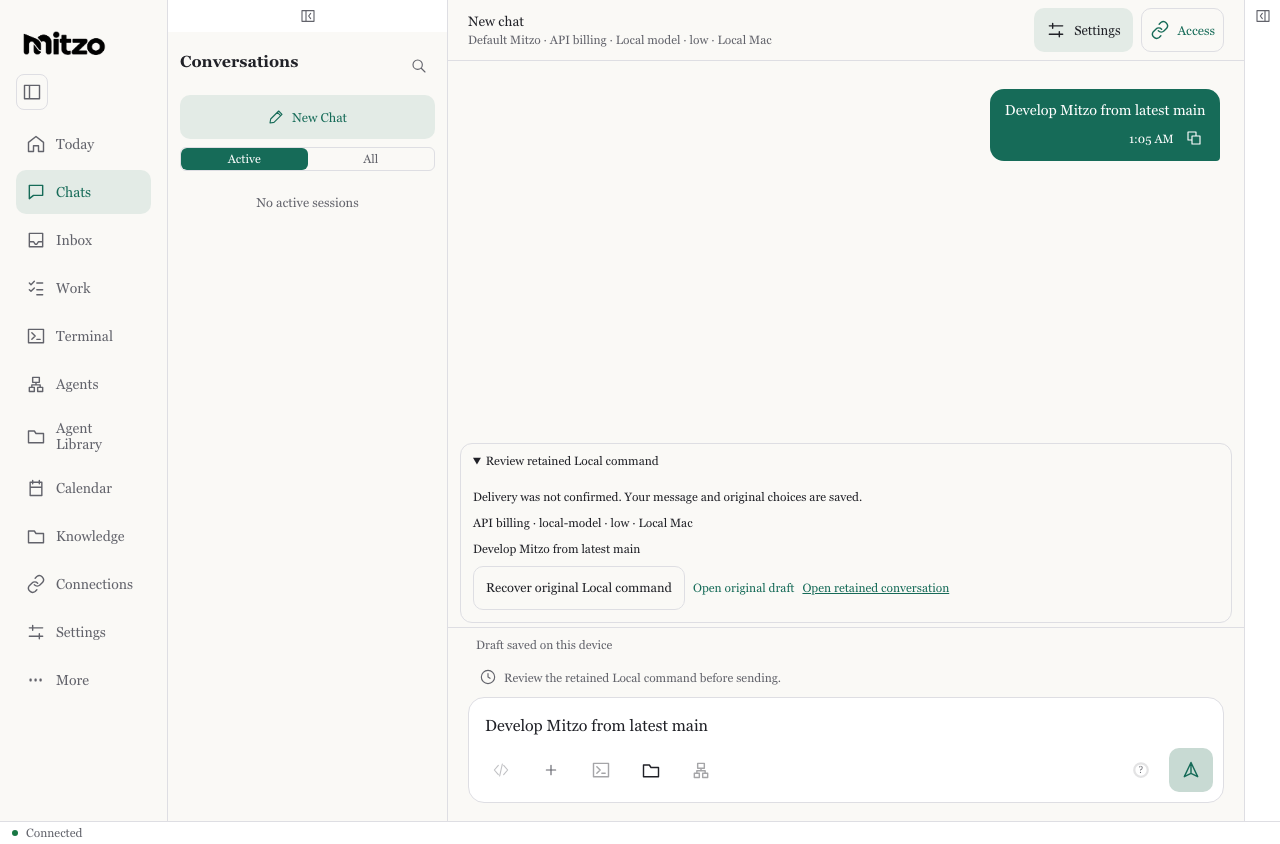
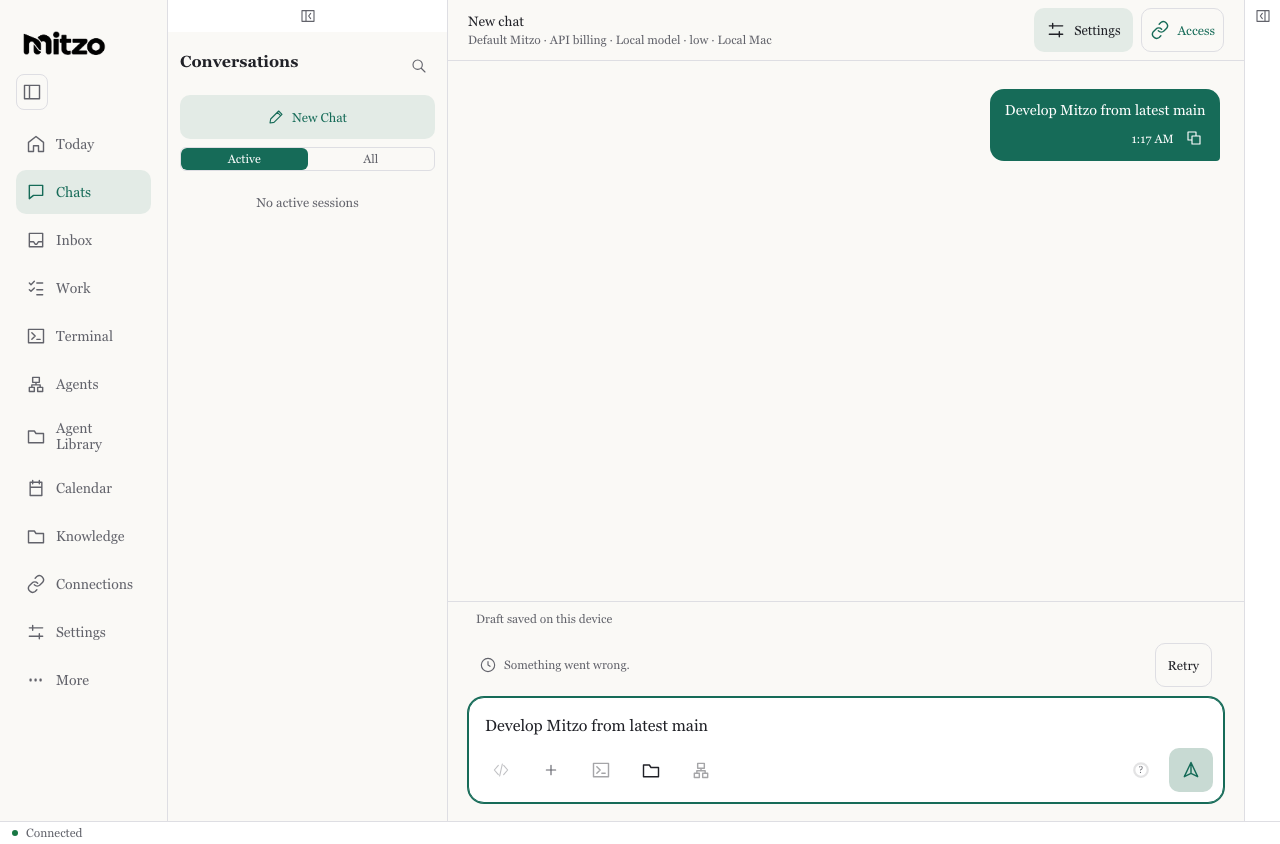
test(chat): verify quiet Retry feedback across local accounts

diff --git a/tests/offline/repository-preparation-recovery.spec.ts b/tests/offline/repository-preparation-recovery.spec.ts
@@ -474,17 +474,20 @@ for (const workspaceChoice of ['select', 'default'] as const) {
           expect(commands.at(-1)?.repositoryWorkspaceId).toBeUndefined();
           expect(selected).toHaveLength(0);
           await expect(composer).toHaveValue('Develop Mitzo from latest main');
-          const review = page.getByText('Review retained Local command', { exact: true });
-          await expect(review).toBeVisible();
+          const recover = page.getByRole('button', { name: 'Retry', exact: true });
+          await expect(recover).toBeVisible();
+          await expect(page.getByText('Something went wrong.', { exact: true })).toHaveCount(1);
+          await expect(
+            page.getByText(
+              /command retained|Review retained|Review the retained|Delivery was not confirmed/,
+            ),
+          ).toHaveCount(0);
           await expect(page.getByRole('button', { name: 'Stop generation' })).toHaveCount(0);
           await expect(page.locator('.conversation-composer [data-icon="loading"]')).toHaveCount(0);
           await expect(start).toBeDisabled();
           await expect(
             page.getByRole('region', { name: 'Agent settings', exact: true }),
           ).toBeHidden();
-          await review.click();
-          const recover = page.getByRole('button', { name: 'Recover original Local command' });
-          await expect(recover).toBeVisible();
           await recover.scrollIntoViewIfNeeded();
           expect((await recover.boundingBox())!.height).toBeGreaterThanOrEqual(44);
           await expect(recover).toBeInViewport();

diff --git a/docs/design/ui-design-system.md b/docs/design/ui-design-system.md
@@ -337,23 +337,21 @@ request keeps its original settings snapshot. Consumed receipt settings are labe
 remain independently disabled. Metadata loading/failure never enables legacy
 fallback; Retry preserves the conversation and draft.
 
-Unconfirmed Local/OpenShell sends expose `LocalCommandRecovery` beside the ordinary
-composer, independently of closed settings. Its native details disclosure shows
-the frozen original message, account/model/thinking/location, exact-receipt recovery
-and links to the original draft or observed conversation. It does not rebuild or
-automatically resend the draft. Unassigned optimistic progress stops on delivery
-uncertainty; real conversation progress keeps its owner. Recovery replaces the
-duplicate delivery-status row, and disconnected recovery stays disabled.
+Unconfirmed Local/OpenShell sends reuse the composer's existing status row with
+one short failure message and one **Retry** action. The action asks the owning outbox
+to check the frozen original request; it does not rebuild or automatically replay
+edited draft content. Retry stays disabled while disconnected. No diagnostic panel,
+repeated payload, account/model summary or duplicate delivery row is shown.
+Unassigned optimistic progress stops on uncertainty; real conversation progress
+keeps its owner and the edited draft remains intact.
 
-This shared control uses the existing quiet surface, `home-secondary`, semantic
-colors, font/type/spacing/radius tokens and 44px touch targets. Its scrollable body
-is bounded to 40dvh (a structural viewport constraint) and the shared spacing scale
-to keep the composer and navigation reachable. All-intercept real application/shell
-checks cover all four local account types, HTTP 409 and transport loss, exact
-request recovery by keyboard, 320px phone and 1280px desktop geometry, dark Mint/System
-and light Teal/Georgia. Inspected captures show
-[mobile recovery](assets/local-command-recovery-mobile-dark.png) and
-[desktop recovery](assets/local-command-recovery-desktop-light.png).
+`ChatStatusMessage` shares this optional action pattern with `ChatInput`, using the
+existing `home-secondary` control, semantic colors, shared spacing and 44px touch
+target. All-intercept real application/shell checks cover all four local account
+types, HTTP 409 and transport loss, exact keyboard recovery, 320px phones and
+1280px desktop, dark Mint/System and light Teal/Georgia. Inspected captures show
+[mobile retry](assets/local-command-recovery-mobile-dark.png) and
+[desktop retry](assets/local-command-recovery-desktop-light.png).
 
 New session elsewhere creates a separately owned blank draft with copied intent
 and no inherited repository preparation. The explicit retained-intent flag keeps

diff --git a/docs/design/local-api-codex-migration.md b/docs/design/local-api-codex-migration.md
@@ -114,9 +114,9 @@ not a live model response. Retained uncertain commands keep their original recei
 recovery never automatically replays an unconfirmed dispatch or resets its worktree.
 
 The client now clears only the unassigned draft's optimistic running state on
-uncertain delivery. Mobile and desktop expose original-command review and exact
-recovery beside the composer, independently of closed settings. Draft content and
-frozen choices remain intact. Actual application/shell browser checks exercise
+uncertain delivery. Mobile and desktop reuse one short composer failure message
+with a Retry action, independently of closed settings. Draft content and frozen
+choices remain intact; no extra diagnostic panel is shown. Actual application/shell browser checks exercise
 HTTP 409 and transport loss for all four local account types, exact recovery,
 disabled replacement sends, keyboard controls and phone/desktop geometry.
 
